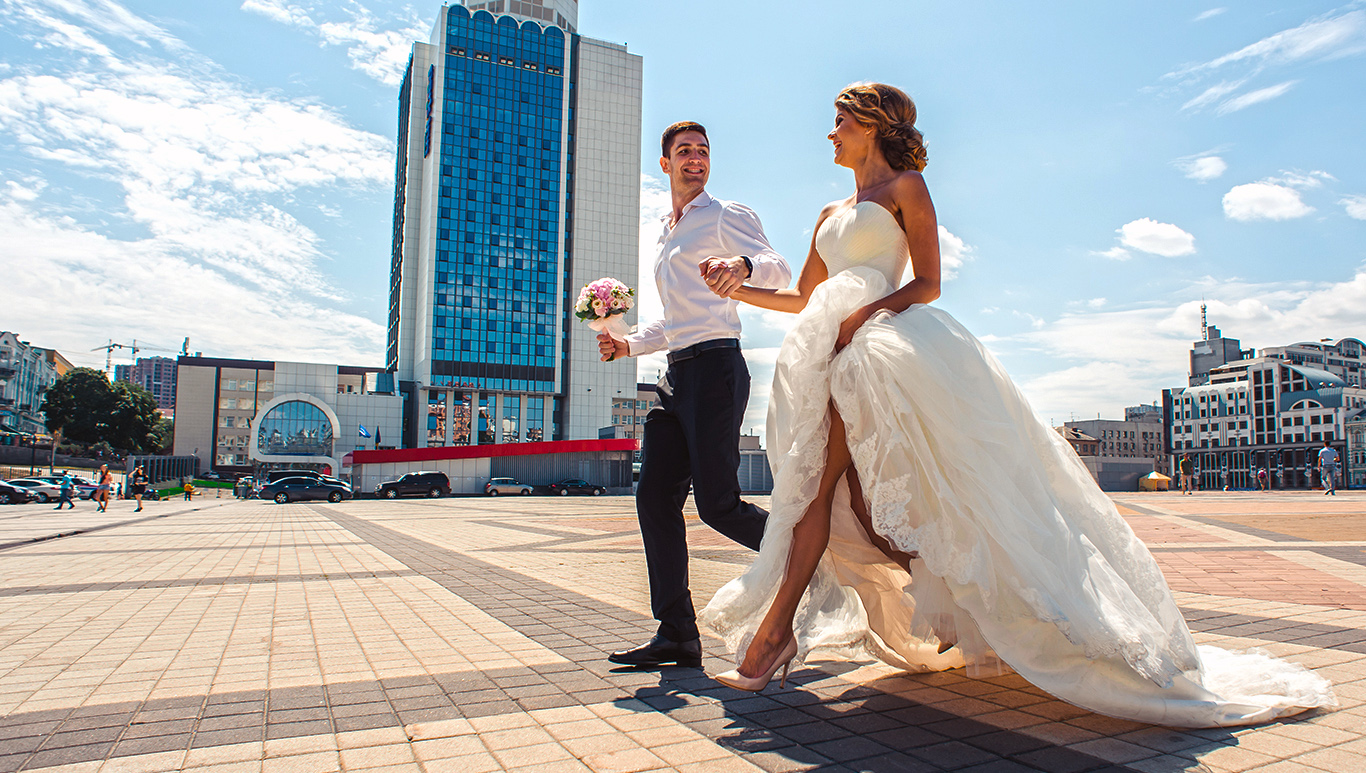
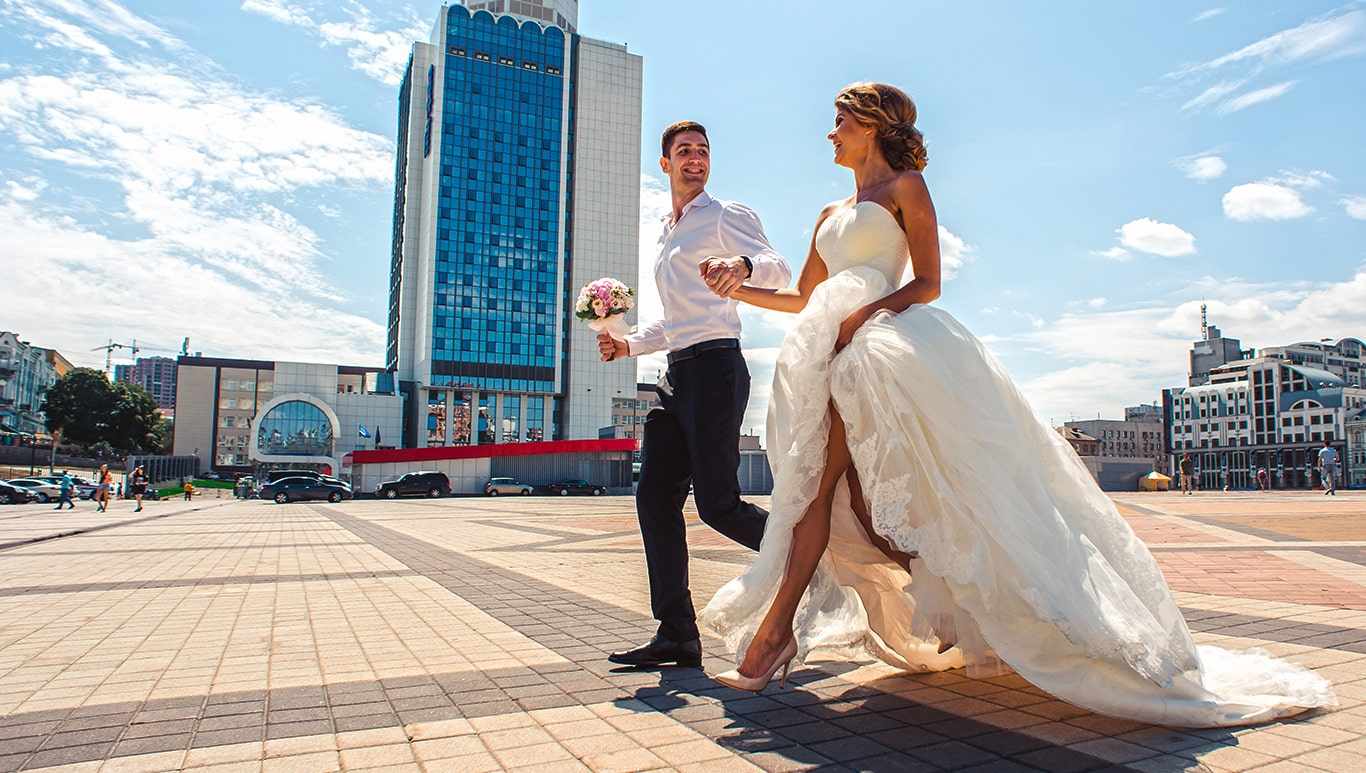
change image size

diff --git a/index.html b/index.html
@@ -51,21 +51,6 @@
         </div>
     </div>
 </section>
-<style type="text/css">
-    .landing-quote__wrap_mobile {
-        display: none;
-    }
-
-    @media only screen and (max-width: 767px) {
-        .landing-quote__wrap_desktop {
-            display: none;
-        }
-
-        .landing-quote__wrap_mobile {
-            display: block;
-        }
-    }
-</style>
 <section class="landing-section">
     <div class="landing-quote__wrap landing-quote__wrap_mobile wrap">
         <div class="landing-quote__quote">
@@ -79,10 +64,8 @@
     }
 
     .landing-services {
-        /*background-color: #F2F2F2;*/
         padding-top: 36px;
         padding-bottom: 36px;
-        /*margin-top: 40px;*/
     }
 
     .landing-services__list {
@@ -121,7 +104,6 @@
         font-family: "FuturaBookC", sans-serif;
         display: inline-block;
         width: auto;
-        /*border: 1px solid #f6d808;*/
         border: 0;
         padding: 20px;
     }
@@ -193,7 +175,7 @@
 </section>
 <style>
     .landing-order {
-        background: url(images/flowers_bg_big.png) center center no-repeat;
+        background: url(images/flowers_shadow_black.png) center center no-repeat;
         width: 100%;
         display: inline-block;
     }
@@ -214,7 +196,6 @@
 
     .landing-order__header p {
         font-size: 19px;
-        /*font-family: "FuturaFuturisLightC", sans-serif;*/
         line-height: 22px;
         margin-top: 10px;
     }
@@ -245,10 +226,6 @@
     }
 
     @media only screen and (min-width: 980px) {
-        .landing-order {
-            /*min-height: 424px;*/
-            /*background-size: 100%;*/
-        }
         .landing-order__header {
             font-size: 32px;
             margin-bottom: 70px;
@@ -272,6 +249,20 @@
         }
     }
 
+    @media only screen and (min-width: 1025px) {
+        .landing-order {
+            background: url(images/flowers_shadow_light.jpg) center center no-repeat;
+            -webkit-background-size: 100%;
+            background-size: 100%;
+        }
+    }
+
+    @media only screen and (min-width: 1024px) and (max-width: 1136px) {
+        .landing-order .landing-button {
+            padding: 9px;
+            white-space: normal;
+        }
+    }
 </style>
 <section class="landing-section">
     <div class="landing-order">
@@ -302,7 +293,6 @@
 
     .landing-services__header {
         text-align: center;
-        /*font-family: "FuturaFuturisLightC", sans-serif;*/
         color: #8F8A89;
         font-size: 33px;
         margin-bottom: 25px;
@@ -310,7 +300,6 @@
 
     .landing-services__header p {
         font-size: 19px;
-        /*font-family: "FuturaFuturisLightC", sans-serif;*/
         line-height: 22px;
         margin-top: 10px;
     }
@@ -383,12 +372,6 @@
     }
 
     @media only screen and (min-width: 980px) {
-        .landing-order {
-            background: url(images/flowers_bg.png) center center no-repeat;
-            -webkit-background-size: 100%;
-            background-size: 100%;
-        }
-
         .landing-services__header p {
             font-size: 21px;
         }
@@ -606,8 +589,6 @@
         color: #8F8A89;
         line-height: 1.2;
         text-align: center;
-        /*font-variant: small-caps;*/
-        /*font-weight: 600;*/
     }
 
     .landing-comment__list {
@@ -723,7 +704,6 @@
         text-align: center;
         color: #8F8A89;
         font-size: 33px;
-        /*font-family: "FuturaFuturisLightC", sans-serif;*/
         margin-bottom: 25px;
     }
 
@@ -931,8 +911,7 @@
     }
 
     .landing-order-contact {
-        background: url(images/big_bg.png) bottom center no-repeat;
-        /*background-position-y: -220px;*/
+        background: url(images/flowers_shadow_light_big.jpg) bottom center no-repeat;
         -webkit-background-size: 100%;
         background-size: 100%;
     }
@@ -972,12 +951,10 @@
 
     .landing-order-contact__email {
         margin-top: 35px;
-        /*margin: 20px 0 10px 0;*/
     }
 
     .landing-order-contact__phone {
         margin-top: 90px;
-        /*margin: 20px 0 10px 0;*/
     }
     
     .landing-order-contact__phone a, .landing-order-contact__email a {
@@ -1034,7 +1011,6 @@
             text-align: center;
             margin-top: 25px;
             margin-bottom: 25px;
-            /*margin: 20px 0 10px 0;*/
         }
 
         .landing-order-contact {
@@ -1061,11 +1037,16 @@
         }
     }
 
-
     @media only screen and (max-width: 768px) {
         .landing-order-contact textarea {
             padding-top: 10px;
             height: 44px;
+        }
+    }
+
+    @media only screen and (max-width: 1260px) and (min-width: 1022px) {
+        .landing-order-contact__phone a, .landing-order-contact__email a {
+            font-size: 24px;
         }
     }
 
@@ -1075,12 +1056,12 @@
         <div class="landing-order-contact__wrap row">
             <div class="landing-order-contact__contact col-sm-12 col-md-6">
                 <div class="landing-order-contact__phone row">
-                    <div class="landing-order-contact__phone-label col-xs-12 col-sm-6 col-md-4">Телефон</div>
-                    <a class="col-xs-12 col-sm-6 col-md-8" href="tel:380688632740">(068) 863-27-40</a>
+                    <div class="landing-order-contact__phone-label col-xs-12 col-md-4">Телефон</div>
+                    <a class="col-xs-12 col-sm-12 col-md-8" href="tel:380688632740">(068) 863-27-40</a>
                 </div>
                 <div class="landing-order-contact__email row">
-                    <div class="landing-order-contact__email-label col-xs-12 col-sm-6 col-md-4">E-mail</div>
-                    <a class="col-xs-12 col-sm-6 col-md-8" href="mailto:thesvadbainfo@gmail.com">thesvadbainfo@gmail.com</a>
+                    <div class="landing-order-contact__email-label col-xs-12 col-md-4">E-mail</div>
+                    <a class="col-xs-12 col-sm-12 col-md-8" href="mailto:thesvadbainfo@gmail.com">thesvadbainfo@gmail.com</a>
                 </div>
             </div>
             <div class="landing-form col-xs12 col-md-6 row">

diff --git a/css/styles.css b/css/styles.css
@@ -202,6 +202,7 @@ ul {
     display: inline-block;
     color: #444444;
     font-size: 14px;
+    margin-left: -20px;
 }
 
 .landing-nav__logo a {
@@ -288,7 +289,7 @@ ul {
 }
 
 .landing-banner__shadow {
-    background-image: url(../images/bg_opacity_white.png);
+    background-image: url(../images/shadow_bottom_white.png);
     background-repeat: no-repeat;
     background-position: bottom center;
     background-size: cover;
@@ -356,6 +357,20 @@ ul {
 .landing-quote__quote:after{
     right: -60px;
     bottom: 40px;
+}
+
+.landing-quote__wrap_mobile {
+    display: none;
+}
+
+@media only screen and (max-width: 767px) {
+    .landing-quote__wrap_desktop {
+        display: none;
+    }
+
+    .landing-quote__wrap_mobile {
+        display: block;
+    }
 }
 
 @media only screen and (max-width: 420px) {
